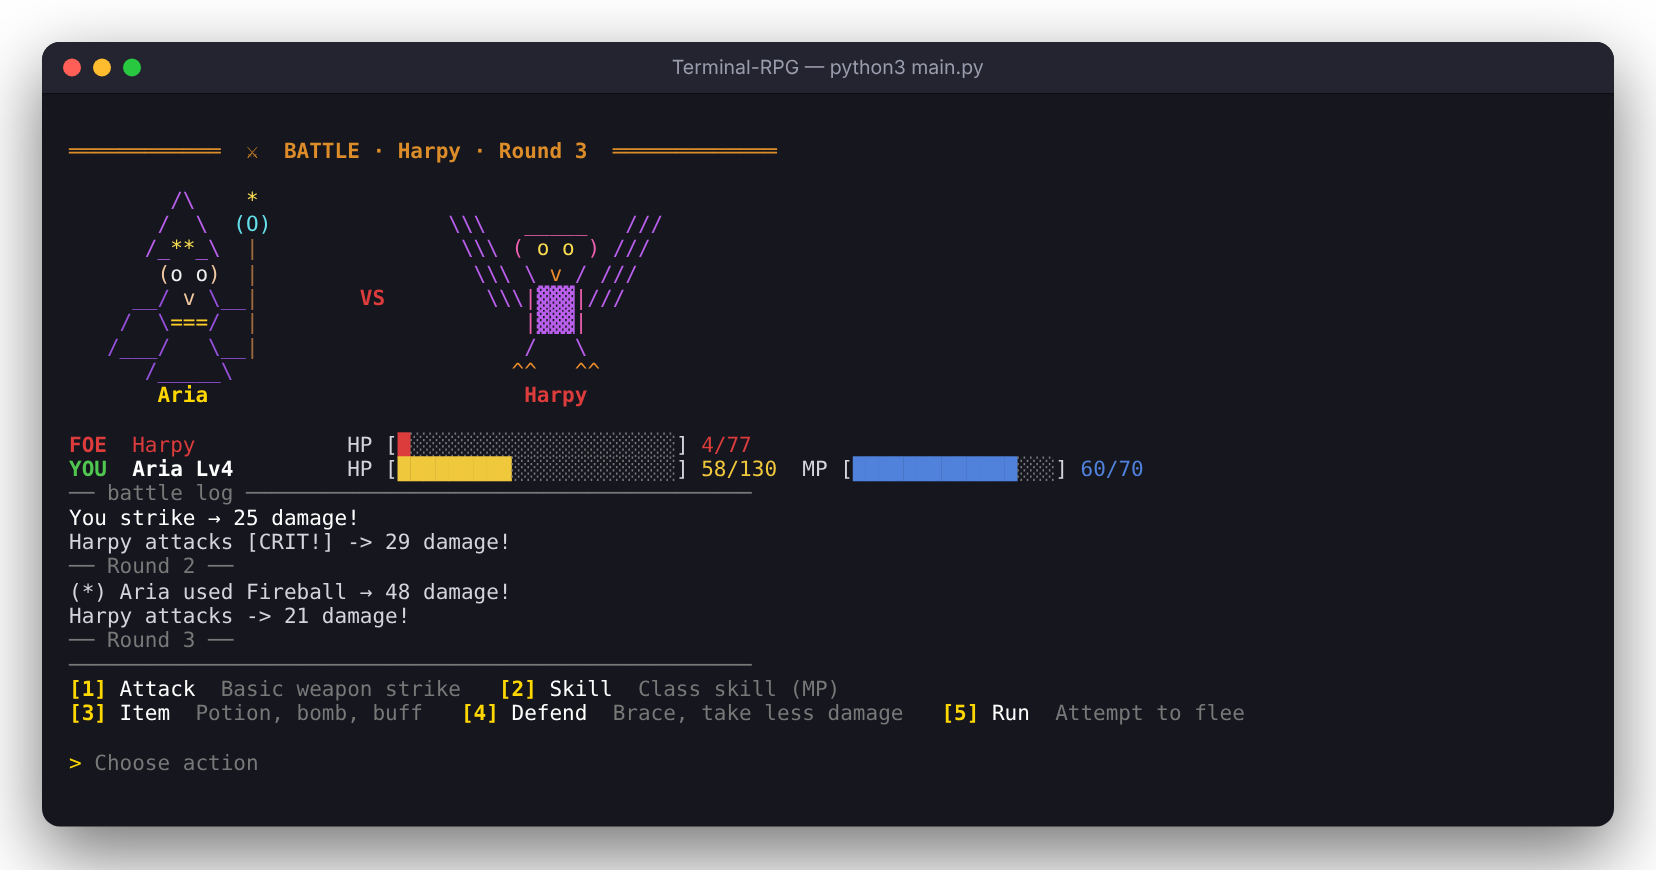
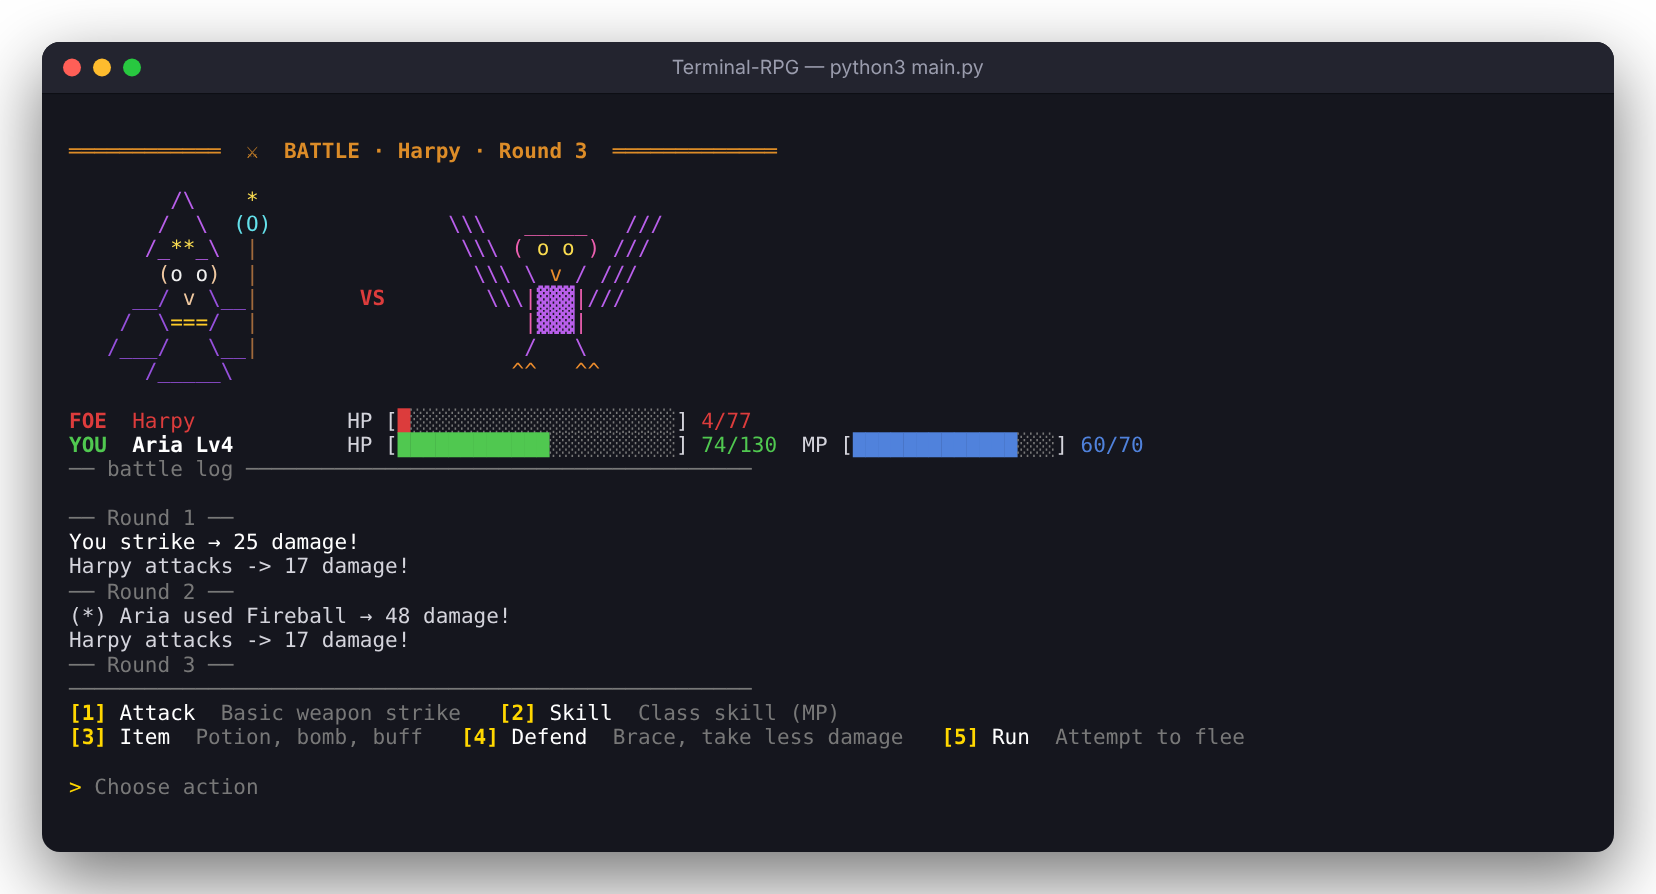
README and screenshots for the overhaul
- New screenshots: walkable town, Valdmere banner, city and throne room,
  boss fight with intents/shields, item inspect card; all retaken
- README: updated features, screenshot gallery, town/castle controls,
  boss tips and project structure

Claude-Session: https://claude.ai/code/session_016XZEKTVA7DJmt9cpXrpNjG

diff --git a/tools/screenshots.py b/tools/screenshots.py
@@ -157,6 +157,64 @@ input()
 """, [
         ("expect", "CHARACTER STATUS"), ("wait", 0.5), ("shot", "character_sheet"),
     ]),
+    "town": ("""
+from game_world import WorldMap
+from game_towns import run_town
+""" + _HERO.format(job="Swordsman") + """
+w = WorldMap(seed=1337)
+loc = next(l for l in w.locations if l["type"] == "city")
+run_town(w, p, loc)
+""", [
+        ("wait", 2.0), ("keys", "wwww"), ("wait", 0.8), ("shot", "town"),
+    ]),
+    "castle_banner": ("""
+from game_capital import valdmere_banner
+""" + _HERO.format(job="Mage") + """
+valdmere_banner(p)
+""", [
+        ("wait", 1.5), ("shot", "castle_banner"),
+    ]),
+    "valdmere": ("""
+from game_world import WorldMap
+from game_capital import Valdmere
+""" + _HERO.format(job="Mage") + """
+w = WorldMap(seed=1337)
+loc = next(l for l in w.locations if l["type"] == "capital")
+v = Valdmere(w, p, loc)
+v.city("gate").run(p)
+""", [
+        ("wait", 2.0), ("keys", "wwwwww"), ("wait", 0.8), ("shot", "valdmere"),
+    ]),
+    "throne_room": ("""
+from game_world import WorldMap
+from game_capital import Valdmere
+""" + _HERO.format(job="Mage") + """
+w = WorldMap(seed=1337)
+loc = next(l for l in w.locations if l["type"] == "capital")
+v = Valdmere(w, p, loc)
+v.keep("gate").run(p)
+""", [
+        ("wait", 2.0), ("keys", "wwwwwwwwwwww"), ("wait", 0.8), ("shot", "throne_room"),
+    ]),
+    "boss_fight": ("""
+from game_enemies import create_boss
+from game_systems import run_combat
+""" + _HERO.format(job="Swordsman") + """
+p.gain_exp(60000); p.hp = p.max_hp
+run_combat(p, create_boss("Demon Lord Kharzul", 30))
+""", [
+        ("wait", 2.0), ("line", "1"), ("wait", 1.0), ("line", "1"), ("wait", 1.2),
+        ("shot", "boss_fight"),
+    ]),
+    "item_card": ("""
+from game_items import make_item, UNIQUE_POOL
+from game_icons import inspect_item
+""" + _HERO.format(job="Swordsman") + """
+it = make_item(sorted(UNIQUE_POOL)[0])
+inspect_item(it, p)
+""", [
+        ("wait", 1.5), ("shot", "item_card"),
+    ]),
     "customise": ("""
 """ + _HERO.format(job="Mage") + """
 from game_customise import open_customise

diff --git a/README.md b/README.md
@@ -11,7 +11,7 @@
 
 ### ⚔ Terminal-RPG — an open‑world RPG that lives in your terminal ⚔
 
-**Five continents. One ancient dragon. Zero graphics card required.**
+**Five continents. Three castles. One ancient dragon. Zero graphics card required.**
 
 ![Python](https://img.shields.io/badge/Python-3.8%2B-blue?logo=python&logoColor=white)
 ![Dependencies](https://img.shields.io/badge/dependencies-none-brightgreen)
@@ -34,74 +34,42 @@ recruit a party, build a base, found a clan, and *awaken* your class into its le
 | | |
 |---|---|
 | 🗺 **Huge procedural world** | A 320×120 archipelago with 5 continents, roads, rivers, ports and fog of war. Every new game is a new map. |
+| 🏘 **Walkable towns & ports** | Every city and port is a hand-crafted-feeling ASCII town: walk the streets, enter shops, inns, taverns and guilds, talk to townsfolk, and watch out for thieves and cutthroats in dark alleys. Day and night change who is out. |
+| 🏰 **Three castle kingdoms** | **Valdmere**, the grey-and-white magic capital with purple banners and a dignified royal court · **Duskthorn Citadel**, a demon fortress where you choose a *pact* or *war* · **Sunspire Kasbah**, a laid-back desert palace with very sharp teeth. |
+| 👑 **4 long main stories** | *The Dragon's Curse*, *The Shadow Conspiracy*, *The Lost Kingdom* and the new kingdom story *The Crown's Plea*, each 13–15 chapters over 3 acts, with choices, twists and epilogues. Plus 16 side stories. |
+| 🧭 **53 places to discover** | Watchtowers that reveal the map, shrines with permanent blessings, bandit camps, a bandit king's hideout, haunted graveyards, wizard towers, obelisk teleport network, lighthouses, frozen shipwrecks, hidden caves and more. |
+| ⚔ **Tactical boss fights** | Bosses telegraph their next move, have shields you can **Break**, charge big attacks, change phases, summon adds and enrage. Story / Normal / Hard difficulty. |
 | 🧙 **10 classes** | Swordsman, Mage, Rogue, Tank, Healer. Each one **awakens** into a stronger form with new skills. |
-| ⚔ **Snappy turn-based combat** | One key per turn and a live battle log. Skills, status effects, bombs, buffs, sneak attacks, boss phases. |
-| 🏰 **Multi-floor dungeons** | Fog of war, treasure chests, hidden traps, teleport pads. Every bottom floor has a boss that scales to your level. |
-| 🐉 **3 main stories + side quests** | *The Dragon's Curse*, *The Shadow Conspiracy*, *The Lost Kingdom*, plus side stories you find by exploring. |
+| 👥 **42 companions** | Common to legendary recruits (and ultra-rare *Starborn* variants) found in taverns, on the road, in dungeons and castles. Loyalty, gear, passives, and full customisation: rename them, give them titles and colours. |
+| 🎒 **277 items with ASCII icons** | Five rarities, random affixes, set gear, legendary uniques. Type `?` + number in any list to inspect an item's icon card. 86 crafting recipes. |
 | 🎨 **Character customisation** | 4 styles per class, each with its own colours and a real perk. Golden **legendary skins** come from epic quests. |
-| 👥 **Party & clans** | Recruit up to 3 of 20 companions, found your own clan and earn passive income. |
-| 🏠 **Player bases** | Buy or build a home on each continent. Upgrade bedroom, storage, workshop, garden and trophy wall. |
-| ⛏ **Mining, crafting, trading** | Mine ore, craft 40+ recipes, barter with travelling merchants. |
-| 🥷 **Stealth** | Monsters roam the map and chase you. Sneak past them and your next fight opens with a sneak attack. |
-| 💾 **Safe saves** | 5 save slots, autosave, **Continue** from the main menu, and an emergency save if the game is interrupted. |
+| 🏠 **Player bases & clans** | Build a home on each continent, found a clan and earn income every day. |
+| ⛏ **Mining, crafting, trading** | Mine ore, craft gear, barter with travelling merchants. |
+| 💾 **Safe saves** | 5 save slots, autosave, **Continue** from the main menu. Saves from older versions keep working. |
 | 🌍 **20 languages** | EN · DE · FR · ES · PT · IT · RU · PL · NL · SV · JA · ZH · KO · AR · TR · CS · HU · RO · FI · NO |
 
-## 📸 A peek inside
+## 📸 Screenshots
 
-> The game uses full 24-bit colour. These captures are plain text, so imagine everything in vivid colour.
+<p align="center"><img src="docs/screenshots/title.png" alt="Title screen" width="49%"> <img src="docs/screenshots/character_creation.png" alt="Character creation" width="49%"></p>
 
-**Boss battle**: your hero is drawn in the colours of the style you picked.
-```
-═══════  ⚔  BOSS BATTLE · Goblin King · Round 2  ═══════
+**Walk through every town**: shops, guilds, taverns and townsfolk, all on foot.
+<p align="center"><img src="docs/screenshots/town.png" alt="A walkable town" width="90%"></p>
 
-                                   ___/\/\/\___
-                                  |__|__|__|__|
-      ___                        ,/  o    o  \,
-     /___\    /|                ((   .-''-.   ))
-     |o o|   / /                 \\  \vvvv/  //
-     \_-_/  / /        VS       __\\_'-..-'_//__
-   __/▓▓▓\_/ /                 /   |▓▓▓▓▓▓▓▓|   \ ==
-  /_ |▓▓▓| /_/                /    |▓▓▓▓▓▓▓▓|    \
-     |_|_|  |                      |___||___|
-     /_/\_\                        (__)  (__)
-       Aria                        Goblin King
+**Valdmere, the royal city**, and the throne room of Castle Lumeris.
+<p align="center"><img src="docs/screenshots/castle_banner.png" alt="Valdmere banner" width="90%"></p>
+<p align="center"><img src="docs/screenshots/valdmere.png" alt="Valdmere city" width="49%"> <img src="docs/screenshots/throne_room.png" alt="Castle Lumeris throne room" width="49%"></p>
 
-FOE  Goblin King      HP [██████████████░░░░░░] 161/230
-YOU  Aria Lv5         HP [████████████████░░░░] 172/214  MP [██████████░░░░] 44/60
-── battle log ────────────────────────────────────────
-Aria strikes! CRITICAL! → 31 damage!
-Goblin King uses POWER STRIKE -> 42 damage!
-──────────────────────────────────────────────────────
-[1] Attack  Basic weapon strike   [2] Skill  Class skill (MP)
-[3] Item  Potion, bomb, buff   [4] Defend  Brace, take less damage
-```
+**Boss fights you can read**: intents, shields, phases and summoned adds.
+<p align="center"><img src="docs/screenshots/boss_fight.png" alt="Boss fight against Demon Lord Kharzul" width="90%"></p>
 
-**Exploring the world**: `@` is you, `P` a city, `X` a dungeon, `M` a mine, `R` ruins, lowercase letters are monsters.
-```
-~~~~~~~~~~~~~~~~~~~~~~~~~~~~~~~~~~~~~~~~~~~~~~~~~~~~~~~~~~~~~~~~~~~~...R.........~~~~
-~~~~~~~~~~~~~~~~~~~~~~~~~~~~~~~~~~~~~~~~~~~~~~~~~~~~~~~~~~~~~~~~~S~~:::..........X:~~
-:::::TTTTTTTTTTTTTTTTTT/T//...............TTTTTTT::::~~~~~~~~~~~:..****==**********~~
-:TTTTTTTTTTTwTTTTTTTTT/Th///.............TTTTTTTTTTT::::~~~~~~~:.******==***********~
-TTTTTTTTTTTTT,,,TTTTT/TTT//.//...........TTTTTT@TTTTTTT:::~~~~::.*******==*****^^^^**
-TTTTTTTTTT,,,,,,,,,T/TRTTTT../=================PTTTTTTTTT::~~~~:.********=******^^***
-TTTTTT,,,,,,,,^,,,/,,TTTTTT.==..........TT,,,,,,,,TTTTTTTTTT::~~::*******i=*********^
-AELORIA  Forest   ▶ Greenveil [E]   ★Hear the Rumours [0/1]
-```
+<p align="center"><img src="docs/screenshots/combat.png" alt="Combat" width="49%"> <img src="docs/screenshots/item_card.png" alt="Item inspect card" width="49%"></p>
 
-**Customise your hero**: flip through styles with a live preview.
-```
-══════════════  🎨 CHARACTER CUSTOMISATION  ══════════════
-Aria the Swordsman   wearing: Default
+**The open world and its dungeons.**
+<p align="center"><img src="docs/screenshots/world_map.png" alt="World map" width="90%"></p>
+<p align="center"><img src="docs/screenshots/dungeon.png" alt="Dungeon" width="49%"> <img src="docs/screenshots/character_sheet.png" alt="Character sheet" width="49%"></p>
+<p align="center"><img src="docs/screenshots/customise.png" alt="Customisation" width="70%"></p>
 
-        ___              2/5  ██  Berserker
-       /___\    /|
-       |o o|   / /       Torn cloak, war paint, twin blades.
-       \_-_/  / /        Fear is your weapon.
-     __/▓▓▓\_/ /
-    /_ |▓▓▓| /_/         Perk: + 4 ATK  (rage-forged strikes)
-       |_|_|  |
-       /_/\_\
-```
+<sub>Screenshots are captured from the real game. Regenerate them with `python3 tools/screenshots.py` (needs `pip install pyte` and Node + Playwright; the game itself needs nothing).</sub>
 
 ---
 
@@ -157,11 +125,12 @@ Your saves always live in the `saves/` folder next to the game.
 
 ## 🎮 Your first adventure
 
-1. **New Game.** Enter a name, pick a class, choose WASD or 8‑direction movement, and pick a main story.
-2. **Visit the town next to you.** Walk onto the `P` and press **E**.
-   - 🛒 **Shop [2]**: buy a few potions (type `1x5` to buy five of item 1).
-   - 📜 **Quest Board [3]**: take a guild quest for easy gold and EXP.
-   - 🗣 **Talk [5]**: the townsfolk know things… *(it may even advance your story)*.
+1. **New Game.** Enter a name, pick a class, choose WASD or 8‑direction movement, and pick a main story
+   (pick *The Crown's Plea* to be hired by the Kingdom of Valdmere; the kingdom is always on the map either way).
+2. **Visit the town next to you.** Walk onto the `P` and press **E**. You arrive at the gate of a walkable town.
+   - Walk into a door (`+`) to enter: 🛒 **Shop**, 🍺 **Tavern** (recruit companions), 📜 **Guild** (quests), 🛏 **Inn**.
+   - Press **E** next to people to talk. The townsfolk know things… *(it may even advance your story)*.
+   - Dark alleys hide thieves. Press **M** for the classic town menu, **Q** to leave.
 3. **Explore.** Monsters roam as letters on the map. Fight them or sneak past.
 4. **Hit a dungeon `X`.** Three floors deep with a boss at the bottom. Bring potions!
 5. **Level up, gear up, sail away.** Ports `H` have ships to the other four continents.
@@ -183,6 +152,15 @@ Your saves always live in the `saves/` folder next to the game.
 | `M` | Discovered places | | `P` | Save game |
 | `?` | Help (+ switch movement mode) | | `Q` / `Esc` | Quit (with save prompt) |
 
+### Towns, castles & structures
+| Key | Action |
+|---|---|
+| `W A S D` / arrows | Walk (walk into doors to enter, into people to talk) |
+| `E` | Talk / use what's next to you |
+| `I` · `J` · `T` | Bag · Journal · Status |
+| `M` | Classic town menu (towns) |
+| `P` · `?` · `Q` | Save · Help & legend · Leave |
+
 ### Combat (one key per turn)
 | Key | Action |
 |---|---|
@@ -191,6 +169,10 @@ Your saves always live in the `saves/` folder next to the game.
 | `3` | 🧪 Item: potions, antidotes, Strength Draught, 💣 Fire Bomb, 💨 Smoke Bomb (guaranteed escape) |
 | `4` | 🛡 Defend: brace and take much less damage |
 | `5` | 🏃 Flee (not possible against bosses) |
+| `T` | 🎯 Switch target when a boss has summoned adds (free action) |
+
+Watch the boss's **INTENT** line: defend against charged and guard-break moves, hit its weakness to
+break its **SHIELD**, then unload while it's stunned.
 
 ### Dungeons
 Walk around to explore. Step on `▼` to go deeper and `▲` to go back up. Stand on a teleport pad `T`
@@ -254,12 +236,17 @@ to unlock its golden skin with a crown and a big bonus.
 | `game_player.py` | Player stats, levelling, inventory, equipment, quick bag |
 | `game_art.py` | Colour ASCII sprites for heroes, monsters and bosses |
 | `game_customise.py` | Styles, legendary skins and legendary quests |
-| `game_enemies.py` | Monsters and level-scaled bosses |
+| `game_enemies.py` | Monsters and bosses (phases, shields, intents, difficulty) |
 | `game_map_enemies.py` | Roaming overworld monsters (patrol and chase AI) |
-| `game_party.py` | Companions and clans |
-| `game_stories.py` | Main stories and side stories |
+| `game_scene.py` | Walkable-map engine used by towns, castles and structures |
+| `game_towns.py` | Walkable cities and ports |
+| `game_capital.py` · `game_castles.py` | Valdmere, Duskthorn Citadel, Sunspire Kasbah and *The Crown's Plea* |
+| `game_structures.py` | 53 explorable world structures |
+| `game_party.py` · `game_recruits.py` | Companions (42), recruiting, loyalty and clans |
+| `game_stories.py` · `game_story_data.py` | Story engine, main stories, side stories and epilogues |
+| `game_icons.py` | ASCII item icons and inspect cards |
 | `game_base.py` | Player bases and the workshop |
-| `game_items.py` | Items, skills, status effects, loot and recipes |
+| `game_items.py` | 277 items, rarities, affixes, skills, status effects, loot and recipes |
 | `game_mining.py` · `game_trading.py` · `game_sell.py` | Mines, barter and selling |
 | `game_codex.py` | In-game encyclopedia and guide |
 | `game_saves.py` | Save slots and autosave |
